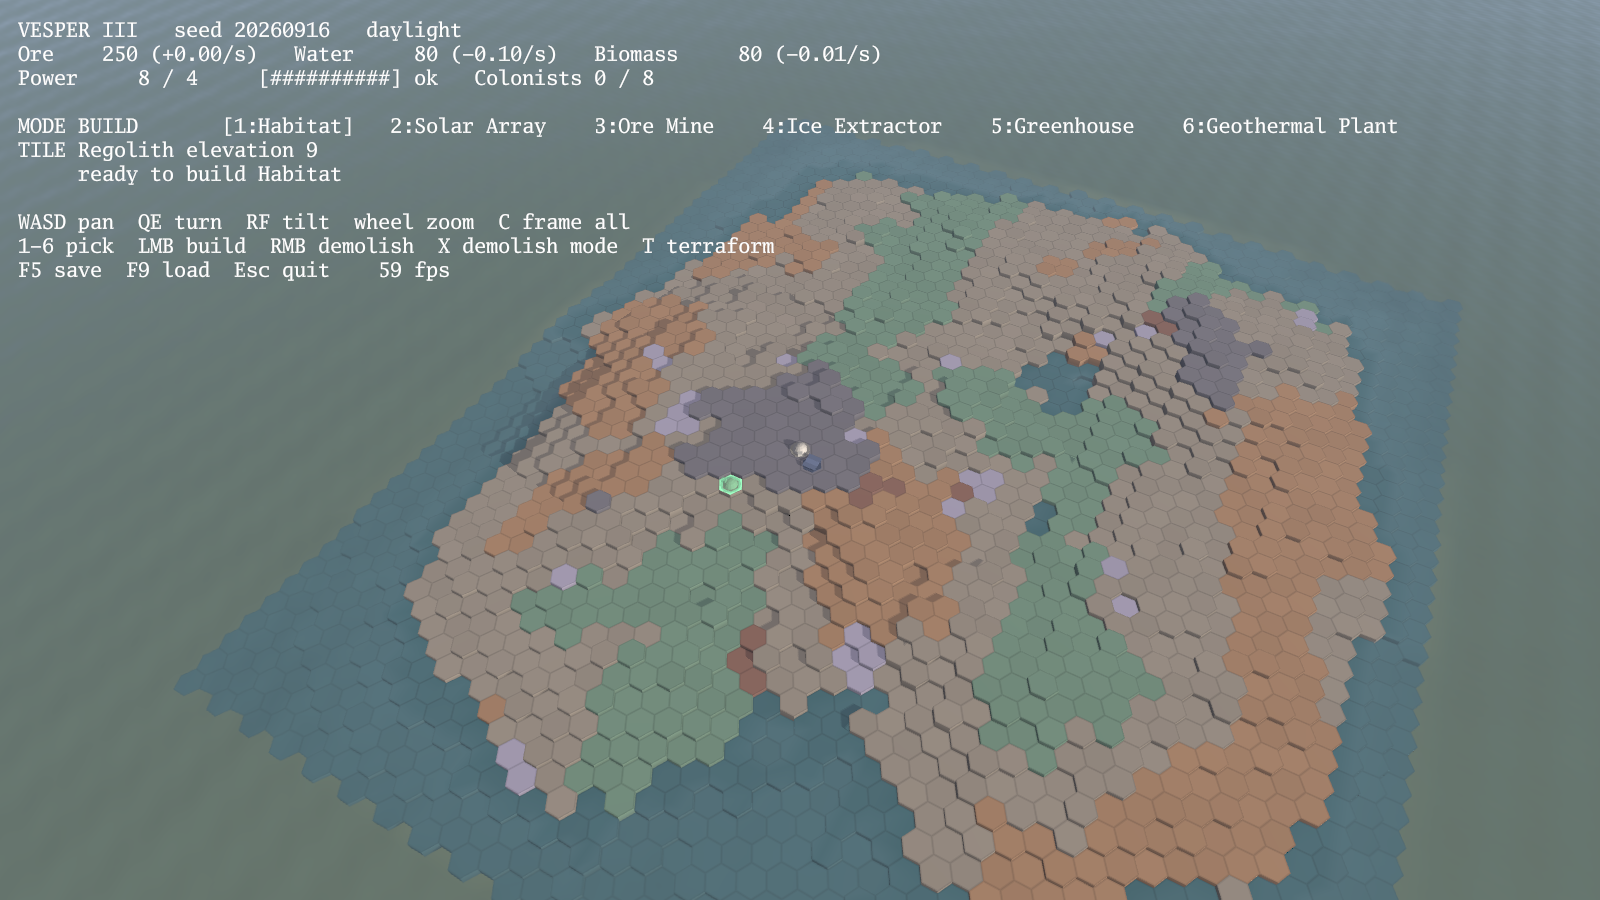
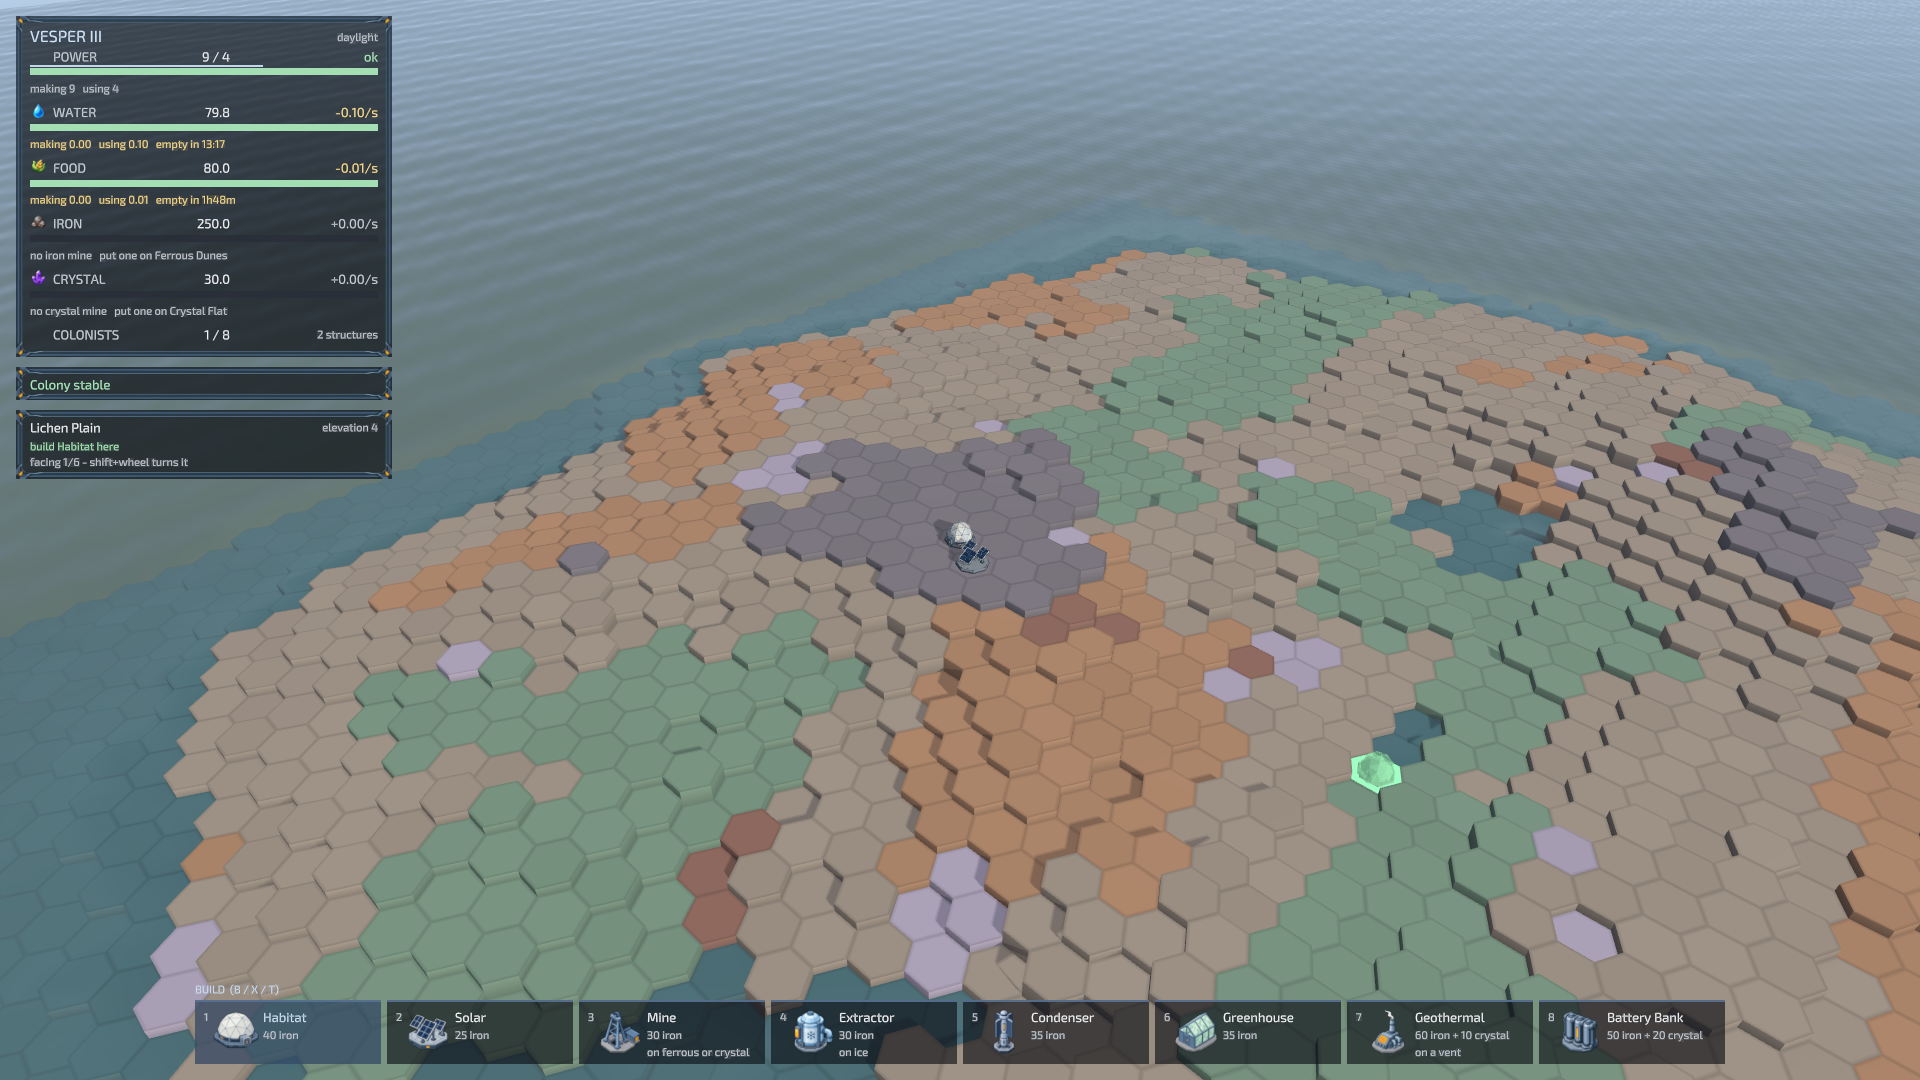
Rename the module to match the repository, and retake the screenshots
The module was github.com/derekmwright/worldbuild while the repository is
vesper3, so go install on the published path would not have worked.

The captures predated most of what they were meant to show: the two-ore
economy, the resource icons on the panel, the runway bars, the placement
ghost using real structure geometry, and the interface colours the engine
bump corrected. Retaken against the current game at 4K, and there are four
now rather than three:

  hud    a colony in the afternoon, with the ghost refusing an occupied
         tile - the red state, which nothing showed before
  dusk   the same colony after sunset: charge strips, grow lights, deck
         lamps. The lighting is a headline feature and was not pictured.
  vesper the continent
  splash the title card

Every one is reproducible - the flags that pin the camera, the pick ray
and the clock are named in the caption. Dropped landing-site.png and
ui-2x.png, which nothing referenced.

diff --git a/internal/game/terrain.go b/internal/game/terrain.go
@@ -10,10 +10,10 @@ import (
 	glyph "github.com/derekmwright/glyphengine"
 	"github.com/derekmwright/glyphengine/renderer"
 
-	"github.com/derekmwright/worldbuild/internal/colony"
-	"github.com/derekmwright/worldbuild/internal/hex"
-	"github.com/derekmwright/worldbuild/internal/meshgen"
-	"github.com/derekmwright/worldbuild/internal/world"
+	"github.com/derekmwright/vesper3/internal/colony"
+	"github.com/derekmwright/vesper3/internal/hex"
+	"github.com/derekmwright/vesper3/internal/meshgen"
+	"github.com/derekmwright/vesper3/internal/world"
 )
 
 // heightmapSamplesPerTile is how finely the map is resampled into the

diff --git a/internal/game/actions.go b/internal/game/actions.go
@@ -9,10 +9,10 @@ import (
 	glyph "github.com/derekmwright/glyphengine"
 	"github.com/derekmwright/glyphengine/input"
 
-	"github.com/derekmwright/worldbuild/internal/colony"
-	"github.com/derekmwright/worldbuild/internal/hex"
-	"github.com/derekmwright/worldbuild/internal/meshgen"
-	"github.com/derekmwright/worldbuild/internal/world"
+	"github.com/derekmwright/vesper3/internal/colony"
+	"github.com/derekmwright/vesper3/internal/hex"
+	"github.com/derekmwright/vesper3/internal/meshgen"
+	"github.com/derekmwright/vesper3/internal/world"
 )
 
 // Terraforming costs ore per step and is bounded so the coastline never

diff --git a/internal/game/events_test.go b/internal/game/events_test.go
@@ -6,10 +6,10 @@ import (
 
 	glyph "github.com/derekmwright/glyphengine"
 
-	"github.com/derekmwright/worldbuild/internal/colony"
-	"github.com/derekmwright/worldbuild/internal/event"
-	"github.com/derekmwright/worldbuild/internal/hex"
-	"github.com/derekmwright/worldbuild/internal/world"
+	"github.com/derekmwright/vesper3/internal/colony"
+	"github.com/derekmwright/vesper3/internal/event"
+	"github.com/derekmwright/vesper3/internal/hex"
+	"github.com/derekmwright/vesper3/internal/world"
 )
 
 // busGame is a Game wired far enough to publish and subscribe, with no window.

diff --git a/internal/game/game.go b/internal/game/game.go
@@ -17,9 +17,9 @@ import (
 	glyph "github.com/derekmwright/glyphengine"
 	"github.com/derekmwright/glyphengine/renderer"
 
-	"github.com/derekmwright/worldbuild/internal/colony"
-	"github.com/derekmwright/worldbuild/internal/event"
-	"github.com/derekmwright/worldbuild/internal/world"
+	"github.com/derekmwright/vesper3/internal/colony"
+	"github.com/derekmwright/vesper3/internal/event"
+	"github.com/derekmwright/vesper3/internal/world"
 )
 
 // meshPart is one drawable piece of a structure: a mesh and the surface it is

diff --git a/internal/game/scene.go b/internal/game/scene.go
@@ -4,9 +4,9 @@ import (
 	glyph "github.com/derekmwright/glyphengine"
 	"github.com/derekmwright/glyphengine/renderer"
 
-	"github.com/derekmwright/worldbuild/internal/colony"
-	"github.com/derekmwright/worldbuild/internal/hex"
-	"github.com/derekmwright/worldbuild/internal/meshgen"
+	"github.com/derekmwright/vesper3/internal/colony"
+	"github.com/derekmwright/vesper3/internal/hex"
+	"github.com/derekmwright/vesper3/internal/meshgen"
 )
 
 // scene is the GPU's copy of the world: the meshes that were uploaded and the

diff --git a/internal/game/lights_test.go b/internal/game/lights_test.go
@@ -7,9 +7,9 @@ import (
 	glyph "github.com/derekmwright/glyphengine"
 	"github.com/go-gl/mathgl/mgl32"
 
-	"github.com/derekmwright/worldbuild/internal/colony"
-	"github.com/derekmwright/worldbuild/internal/hex"
-	"github.com/derekmwright/worldbuild/internal/world"
+	"github.com/derekmwright/vesper3/internal/colony"
+	"github.com/derekmwright/vesper3/internal/hex"
+	"github.com/derekmwright/vesper3/internal/world"
 )
 
 func TestCondenserSweepLoopsAndFadesAtTheSeam(t *testing.T) {

diff --git a/internal/game/activity.go b/internal/game/activity.go
@@ -9,9 +9,9 @@ import (
 	"github.com/go-gl/mathgl/mgl32"
 
 	glyph "github.com/derekmwright/glyphengine"
-	"github.com/derekmwright/worldbuild/internal/artcheck"
-	"github.com/derekmwright/worldbuild/internal/colony"
-	"github.com/derekmwright/worldbuild/internal/hex"
+	"github.com/derekmwright/vesper3/internal/artcheck"
+	"github.com/derekmwright/vesper3/internal/colony"
+	"github.com/derekmwright/vesper3/internal/hex"
 )
 
 // What a structure looks like while it is working.

diff --git a/internal/game/events.go b/internal/game/events.go
@@ -5,9 +5,9 @@ import (
 
 	glyph "github.com/derekmwright/glyphengine"
 
-	"github.com/derekmwright/worldbuild/internal/colony"
-	"github.com/derekmwright/worldbuild/internal/event"
-	"github.com/derekmwright/worldbuild/internal/hex"
+	"github.com/derekmwright/vesper3/internal/colony"
+	"github.com/derekmwright/vesper3/internal/event"
+	"github.com/derekmwright/vesper3/internal/hex"
 )
 
 // The game's event vocabulary: the things that happen, as opposed to the

diff --git a/internal/game/battery_test.go b/internal/game/battery_test.go
@@ -3,9 +3,9 @@ package game
 import (
 	"testing"
 
-	"github.com/derekmwright/worldbuild/internal/artcheck"
-	"github.com/derekmwright/worldbuild/internal/colony"
-	"github.com/derekmwright/worldbuild/internal/hex"
+	"github.com/derekmwright/vesper3/internal/artcheck"
+	"github.com/derekmwright/vesper3/internal/colony"
+	"github.com/derekmwright/vesper3/internal/hex"
 )
 
 // The battery bank shows two different things, and the split is the point.

diff --git a/internal/game/facing_test.go b/internal/game/facing_test.go
@@ -4,9 +4,9 @@ import (
 	"math"
 	"testing"
 
-	"github.com/derekmwright/worldbuild/internal/colony"
-	"github.com/derekmwright/worldbuild/internal/hex"
-	"github.com/derekmwright/worldbuild/internal/world"
+	"github.com/derekmwright/vesper3/internal/colony"
+	"github.com/derekmwright/vesper3/internal/hex"
+	"github.com/derekmwright/vesper3/internal/world"
 )
 
 // Facings are sixths of a turn because that is the grid's symmetry. Any other

diff --git a/internal/game/save_test.go b/internal/game/save_test.go
@@ -4,9 +4,9 @@ import (
 	"strings"
 	"testing"
 
-	"github.com/derekmwright/worldbuild/internal/colony"
-	"github.com/derekmwright/worldbuild/internal/hex"
-	"github.com/derekmwright/worldbuild/internal/world"
+	"github.com/derekmwright/vesper3/internal/colony"
+	"github.com/derekmwright/vesper3/internal/hex"
+	"github.com/derekmwright/vesper3/internal/world"
 )
 
 // A save has to come back carrying everything the player earned and

diff --git a/internal/game/confirm.go b/internal/game/confirm.go
@@ -4,8 +4,8 @@ import (
 	glyph "github.com/derekmwright/glyphengine"
 	"github.com/derekmwright/glyphengine/input"
 
-	"github.com/derekmwright/worldbuild/internal/colony"
-	"github.com/derekmwright/worldbuild/internal/hex"
+	"github.com/derekmwright/vesper3/internal/colony"
+	"github.com/derekmwright/vesper3/internal/hex"
 )
 
 // confirmPrompt is a question waiting for an answer.
